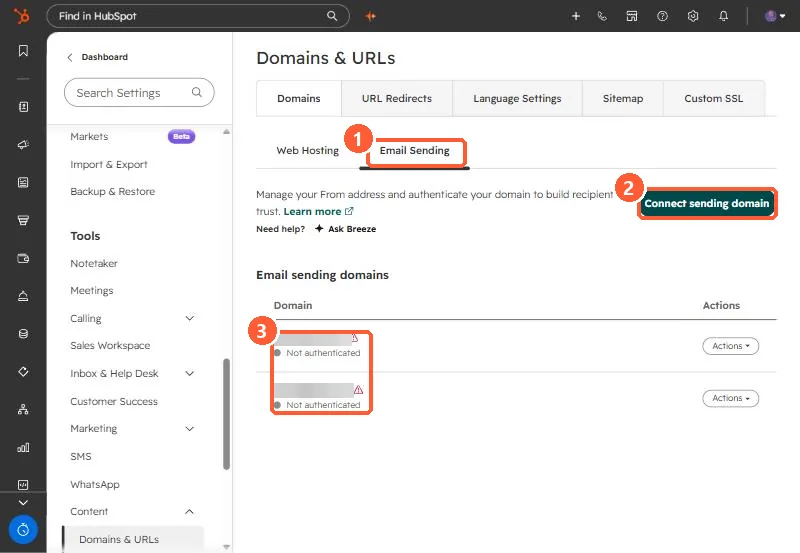
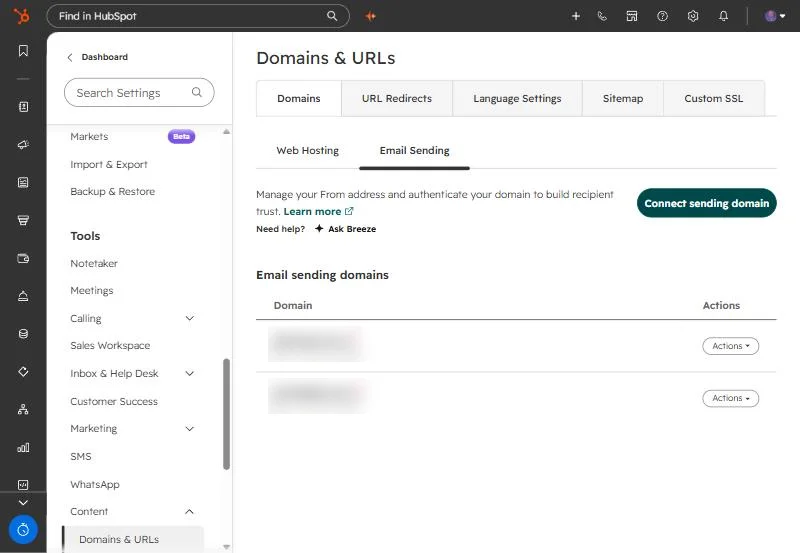
Rewrite site-speed-dashboard and email-sending-domain-troubleshoot from KB, add Validated stamps
- site-speed-dashboard: replace the wrong screenshot (Website pages) with the Site Speed dashboard, blur the domain, use KB steps and report list.
- email-sending-domain-troubleshoot: blur sending domain names, use the KB troubleshooting steps, drop the Community source.
- Add validated fields (2026-10-11 15:55 ET and 16:10 ET); article row, home card, OG card, feed and llms.txt updated.

Changed region(s): [[0.3125, 0.5533, 0.4688, 0.7685], [0.75, 0.3074, 1.0, 0.3996], [0.4062, 0.2152, 0.5938, 0.3074]]

diff --git a/index.html b/index.html
@@ -586,7 +586,7 @@
 <a class="card" href="articles/analyze-custom-behavioral-events/"><div class="badges"><span class="badge badge-type">Quick tip</span><span class="badge badge-problem">Gotcha</span><span class="badge">Marketing Hub</span></div><h3>Report on custom events</h3><p>Where to analyze HubSpot custom event data and the one-event-per-report limit.</p><div class="card-meta"><span>2 min</span><span>Intermediate</span><span>Verified 2026-10-07</span></div></a>
 <a class="card" href="articles/restore-deleted-marketing-emails/"><div class="badges"><span class="badge badge-type">Quick tip</span><span class="badge badge-problem">How to</span><span class="badge">Marketing Hub</span></div><h3>Restore a deleted marketing email</h3><p>How long HubSpot keeps deleted marketing emails and who can restore them.</p><div class="card-meta"><span>2 min</span><span>Beginner</span><span>Verified 2026-10-07</span></div></a>
 <a class="card" href="articles/sequences-sender-score/"><div class="badges"><span class="badge badge-type">Quick tip</span><span class="badge badge-problem">Gotcha</span><span class="badge">Sales Hub</span></div><h3>What the sequences sender score measures</h3><p>How HubSpot calculates the sequences sender score and where to see it.</p><div class="card-meta"><span>2 min</span><span>Intermediate</span><span>Verified 2026-10-07</span></div></a>
-<a class="card" href="articles/site-speed-dashboard/"><div class="badges"><span class="badge badge-type">Quick tip</span><span class="badge badge-problem">How to</span><span class="badge">Content Hub</span></div><h3>Check Web Vitals on the site speed dashboard</h3><p>What HubSpot&#39;s site speed dashboard covers and how to open it.</p><div class="card-meta"><span>2 min</span><span>Beginner</span><span>Verified 2026-10-07</span></div></a>
+<a class="card" href="articles/site-speed-dashboard/"><div class="badges"><span class="badge badge-type">Quick tip</span><span class="badge badge-problem">How to</span><span class="badge">Content Hub</span></div><h3>Check Web Vitals on the site speed dashboard</h3><p>The site speed dashboard scores a domain or page against Core Web Vitals, with the steps to open it.</p><div class="card-meta"><span>2 min</span><span>Beginner</span><span>Validated 2026-10-11 15:55 ET</span></div></a>
 <a class="card" href="articles/google-drive-integration/"><div class="badges"><span class="badge badge-type">Quick tip</span><span class="badge badge-problem">How to</span><span class="badge">Smart CRM</span></div><h3>Connect Google Drive to HubSpot</h3><p>How the Google Drive integration works per user and its file access rules.</p><div class="card-meta"><span>2 min</span><span>Beginner</span><span>Verified 2026-10-07</span></div></a>
 <a class="card" href="articles/forms-multiple-languages/"><div class="badges"><span class="badge badge-type">Quick tip</span><span class="badge badge-problem">How to</span><span class="badge">Marketing Hub</span></div><h3>Translate a legacy form</h3><p>How translations work for HubSpot legacy forms.</p><div class="card-meta"><span>2 min</span><span>Beginner</span><span>Verified 2026-10-07</span></div></a>
 <a class="card" href="articles/create-sync-properties/"><div class="badges"><span class="badge badge-type">Quick tip</span><span class="badge badge-problem">Hidden trick</span><span class="badge">Smart CRM</span></div><h3>Copy data to associated records with sync properties</h3><p>How sync properties copy values one way and when they can replace a workflow.</p><div class="card-meta"><span>2 min</span><span>Intermediate</span><span>Verified 2026-10-07</span></div></a>
@@ -732,7 +732,7 @@
 <a class="card" href="articles/chatflow-availability/"><div class="badges"><span class="badge badge-type">Quick tip</span><span class="badge badge-problem">Gotcha</span><span class="badge">Service Hub</span><span class="badge">Marketing Hub</span></div><h3>Control when your chat widget appears</h3><p>How HubSpot chatflow availability settings work, including for bots.</p><div class="card-meta"><span>2 min</span><span>Intermediate</span><span>Verified 2026-10-07</span></div></a>
 <a class="card" href="articles/email-deliverability-practices/"><div class="badges"><span class="badge badge-type">Quick tip</span><span class="badge badge-problem">How to</span><span class="badge">Marketing Hub</span></div><h3>HubSpot&#39;s email deliverability basics</h3><p>What HubSpot&#39;s KB recommends to keep marketing emails out of spam.</p><div class="card-meta"><span>2 min</span><span>Beginner</span><span>Verified 2026-10-07</span></div></a>
 <a class="card" href="articles/custom-objects-use/"><div class="badges"><span class="badge badge-type">Quick tip</span><span class="badge badge-problem">How to</span><span class="badge">Smart CRM</span></div><h3>Create and work with custom object records</h3><p>How HubSpot custom object records are created, associated and automated.</p><div class="card-meta"><span>2 min</span><span>Intermediate</span><span>Verified 2026-10-07</span></div></a>
-<a class="card" href="articles/email-sending-domain-troubleshoot/"><div class="badges"><span class="badge badge-type">Quick tip</span><span class="badge badge-problem">Fix it</span><span class="badge">Marketing Hub</span></div><h3>Email sending domain won&#39;t verify</h3><p>HubSpot&#39;s checks when DNS records for an email sending domain don&#39;t verify.</p><div class="card-meta"><span>2 min</span><span>Intermediate</span><span>Verified 2026-10-07</span></div></a>
+<a class="card" href="articles/email-sending-domain-troubleshoot/"><div class="badges"><span class="badge badge-type">Quick tip</span><span class="badge badge-problem">Fix it</span><span class="badge">Marketing Hub</span></div><h3>Email sending domain won&#39;t verify</h3><p>Why an email sending domain shows Not authenticated: DNS propagation, the duplicated root domain, and checking with Dig.</p><div class="card-meta"><span>2 min</span><span>Intermediate</span><span>Validated 2026-10-11 16:10 ET</span></div></a>
 <a class="card" href="articles/mobile-app-conversations/"><div class="badges"><span class="badge badge-type">Quick tip</span><span class="badge badge-problem">How to</span><span class="badge">Service Hub</span></div><h3>Answer inbox conversations from the mobile app</h3><p>What HubSpot&#39;s mobile app can do with the conversations inbox.</p><div class="card-meta"><span>2 min</span><span>Beginner</span><span>Verified 2026-10-07</span></div></a>
 <a class="card" href="articles/facebook-event-codes/"><div class="badges"><span class="badge badge-type">Quick tip</span><span class="badge badge-problem">Gotcha</span><span class="badge">Marketing Hub</span></div><h3>Facebook event codes on HubSpot pages</h3><p>What HubSpot places automatically and when you install the pixel yourself.</p><div class="card-meta"><span>2 min</span><span>Intermediate</span><span>Verified 2026-10-07</span></div></a>
 <a class="card" href="articles/form-email-response/"><div class="badges"><span class="badge badge-type">Quick tip</span><span class="badge badge-problem">How to</span><span class="badge">Marketing Hub</span></div><h3>Send an email after a form submission</h3><p>How HubSpot&#39;s form automation sends follow-up emails, by tier.</p><div class="card-meta"><span>2 min</span><span>Beginner</span><span>Verified 2026-10-07</span></div></a>

diff --git a/articles/email-sending-domain-troubleshoot/index.html b/articles/email-sending-domain-troubleshoot/index.html
@@ -22,7 +22,7 @@
 <meta property="og:description" content="HubSpot's checks when DNS records for an email sending domain don't verify.">
 <meta property="og:image" content="https://hubspot.samcbarth.com/articles/email-sending-domain-troubleshoot/og.png">
 <meta property="article:published_time" content="2026-10-07">
-<meta property="article:modified_time" content="2026-10-07">
+<meta property="article:modified_time" content="2026-10-11">
 <meta name="twitter:card" content="summary_large_image">
 <script type="application/ld+json">
 {
@@ -33,7 +33,7 @@
       "headline": "Email sending domain won't verify",
       "description": "HubSpot's checks when DNS records for an email sending domain don't verify.",
       "datePublished": "2026-10-07",
-      "dateModified": "2026-10-07",
+      "dateModified": "2026-10-11",
       "author": { "@type": "Person", "name": "Sam Barth", "url": "https://samcbarth.com" },
       "publisher": { "@type": "Person", "name": "Sam Barth" },
       "image": "https://hubspot.samcbarth.com/articles/email-sending-domain-troubleshoot/og.png",
@@ -87,12 +87,12 @@
     <header class="article-head">
       <div class="badges"><span class="badge badge-type">Quick tip</span><span class="badge badge-problem">Fix it</span><span class="badge">Marketing Hub</span></div>
       <h1>Email sending domain won't verify</h1>
-      <p class="dek">Hostnames without the domain.</p>
+      <p class="dek">Most sending domains that won't verify have a DNS record problem. Check the record, the host name and the propagation time before you change anything else.</p>
       <dl class="facts">
         <div class="fact"><dt>Subscription</dt><dd>All tiers</dd></div>
         <div class="fact"><dt>Permissions</dt><dd>Domain settings access</dd></div>
         <div class="fact"><dt>Time</dt><dd>2 min &middot; Intermediate</dd></div>
-        <div class="fact"><dt>Last verified</dt><dd><time datetime="2026-10-07">October 7, 2026</time></dd></div>
+        <div class="fact"><dt>Validated</dt><dd><time datetime="2026-10-11T16:10:00-04:00">October 11, 2026, 4:10 PM ET</time></dd></div>
       </dl>
       <div data-portal-box></div>
     </header>
@@ -102,21 +102,27 @@
       <article class="prose">
         <div class="tldr">
           <h2>Short answer</h2>
-          <p>HubSpot's KB: DNS changes take time to propagate. Enter <strong>host(name) values without the domain</strong>, since some DNS providers append it and create a duplicated root domain. Check with tools like <strong>Dig</strong>. The DKIM CNAME records follow the DKIM protocol.</p>
+          <p>Most DNS changes show up within five hours, and full propagation can take up to 48 hours. If the domain still won't verify, compare each CNAME record in HubSpot with the record at your DNS host. The usual fix is to enter the host name without the root domain, because some DNS hosts add it again and create a duplicated root domain.</p>
         </div>
 
-        <h2>1. In HubSpot</h2>
-        <p>The relevant screen in my demo portal.</p>
-        <figure class="shot"><a href="domains.webp"><img src="domains.webp" alt="Domains and URLs Email Sending tab with Connect sending domain button and two domains not authenticated" width="800" height="553" loading="lazy"></a><figcaption>Email Sending (1), Connect sending domain (2), and the status (3).</figcaption></figure>
-        <h2>2. Worth knowing</h2>
-        <p>A duplicated root domain in the host field is the error to look for first.</p>
-        <h2>3. Related</h2>
-        <p><a href="../connect-email-sending-domain-spf/">Connecting a sending domain</a> and <a href="../dmarc-for-hubspot-email/">DMARC</a>.</p>
+        <h2>1. Find the sending domains</h2>
+        <p>Open <span class="ui">Settings</span>, then <span class="ui">Content</span>, then <span class="ui">Domains &amp; URLs</span>, and select the <span class="ui">Email Sending</span> tab. Each domain shows its status. <span class="ui">Connect sending domain</span> starts a new one.</p>
+        <figure class="shot"><a href="domains.webp"><img src="domains.webp" alt="Domains and URLs Email Sending tab with the Connect sending domain button and domain status rows" width="800" height="553" loading="lazy"></a><figcaption>The Email Sending tab. Domain names are blurred. A domain marked Not authenticated needs its DNS records checked.</figcaption></figure>
+        <div class="callout"><span class="callout-title">Example from my portal</span><p>In my portal I had this as an example. Two sending domains showed Not authenticated at the same time,. You may have something like this.</p></div>
+
+        <h2>2. Compare the records</h2>
+        <p>On the <span class="ui">Verify URLs</span> step, HubSpot shows a banner when it can't connect a record. It groups the problem as a typo, a missing record, or a conflicting record. Open your DNS host and confirm the CNAME records match the host name and values HubSpot gives you. Then select <span class="ui">Refresh</span> or check them again in HubSpot.</p>
+
+        <h2>3. Remove the duplicated root domain</h2>
+        <p>Some DNS hosts add your domain to the end of each record by default. For a DKIM record, that turns <code>hs1-123456._domainkey.example.com</code> into a record ending in <code>example.com.example.com</code>. Enter the host name without the domain, such as <code>hs1-123456._domainkey</code>. Some DNS hosts reject characters such as underscores or hyphens in a CNAME; if yours does, contact its support.</p>
+
+        <h2>4. Check with Dig</h2>
+        <p>Use a DNS lookup tool such as Dig to check the record at the public DNS level. Set the type to CNAME for an email sending domain. The result should match the value HubSpot provides, which for an email sending domain looks like <code>yourdomain-com.hs[#]a.dkim.hubspotemail.net.</code> or the b variant.</p>
 
         <h2>Sources</h2>
         <ul class="sources">
-          <li><a href="https://community.hubspot.com/t/suspendings-sending-emails/12991">HubSpot Community question: Suspendings sending emails</a></li>
-          <li><a href="https://knowledge.hubspot.com/email/troubleshoot-your-email-sending-domain">HubSpot Knowledge Base: Troubleshoot your email sending domain</a></li>
+          <li><a href="https://knowledge.hubspot.com/email/troubleshoot-your-email-sending-domain">HubSpot Knowledge Base: Troubleshoot domain connection</a></li>
+          <li><a href="https://knowledge.hubspot.com/marketing-email/manage-email-authentication-in-hubspot">HubSpot Knowledge Base: Manage your email authentication</a></li>
         </ul>
 
         <div class="vote" data-vote></div>

diff --git a/articles/site-speed-dashboard/index.html b/articles/site-speed-dashboard/index.html
@@ -22,7 +22,7 @@
 <meta property="og:description" content="What HubSpot's site speed dashboard covers and how to open it.">
 <meta property="og:image" content="https://hubspot.samcbarth.com/articles/site-speed-dashboard/og.png">
 <meta property="article:published_time" content="2026-10-07">
-<meta property="article:modified_time" content="2026-10-07">
+<meta property="article:modified_time" content="2026-10-11">
 <meta name="twitter:card" content="summary_large_image">
 <script type="application/ld+json">
 {
@@ -33,7 +33,7 @@
       "headline": "Check Web Vitals on the site speed dashboard",
       "description": "What HubSpot's site speed dashboard covers and how to open it.",
       "datePublished": "2026-10-07",
-      "dateModified": "2026-10-07",
+      "dateModified": "2026-10-11",
       "author": { "@type": "Person", "name": "Sam Barth", "url": "https://samcbarth.com" },
       "publisher": { "@type": "Person", "name": "Sam Barth" },
       "image": "https://hubspot.samcbarth.com/articles/site-speed-dashboard/og.png",
@@ -87,12 +87,12 @@
     <header class="article-head">
       <div class="badges"><span class="badge badge-type">Quick tip</span><span class="badge badge-problem">How to</span><span class="badge">Content Hub</span></div>
       <h1>Check Web Vitals on the site speed dashboard</h1>
-      <p class="dek">HubSpot-hosted content only.</p>
+      <p class="dek">The site speed dashboard scores a domain or page against Core Web Vitals. Here is how to open it and what each report shows.</p>
       <dl class="facts">
         <div class="fact"><dt>Subscription</dt><dd>Check your subscription</dd></div>
         <div class="fact"><dt>Permissions</dt><dd>Reports access</dd></div>
         <div class="fact"><dt>Time</dt><dd>2 min &middot; Beginner</dd></div>
-        <div class="fact"><dt>Last verified</dt><dd><time datetime="2026-10-07">October 7, 2026</time></dd></div>
+        <div class="fact"><dt>Validated</dt><dd><time datetime="2026-10-11T15:55:00-04:00">October 11, 2026, 3:55 PM ET</time></dd></div>
       </dl>
       <div data-portal-box></div>
     </header>
@@ -102,21 +102,31 @@
       <article class="prose">
         <div class="tldr">
           <h2>Short answer</h2>
-          <p>HubSpot's KB: the dashboard evaluates pages against <strong>Web Vitals</strong> metrics. It only analyzes <strong>HubSpot-hosted content</strong>. Open it at app.hubspot.com/site-speed/ followed by your account ID.</p>
+          <p>The site speed dashboard scores how a domain or page performs for visitors against Core Web Vitals. Open <code>app.hubspot.com/site-speed/</code> followed by your account ID, choose a domain or search for a URL, then select <span class="ui">Analyze</span>.</p>
         </div>
 
-        <h2>1. In HubSpot</h2>
-        <p>The relevant screen in my demo portal.</p>
-        <figure class="shot"><a href="pages.webp"><img src="pages.webp" alt="Website pages list with Manage and Analyze tabs, saved views, publish status and domain filters" width="800" height="553" loading="lazy"></a><figcaption>Manage and Analyze tabs (1) and saved views (2).</figcaption></figure>
-        <h2>2. Worth knowing</h2>
-        <p>External sites, such as WordPress, need other tools.</p>
-        <h2>3. Related</h2>
-        <p><a href="../speed-up-landing-page/">Speeding up pages</a> and <a href="../automatic-image-resizing/">image resizing</a>.</p>
+        <h2>1. Open the dashboard</h2>
+        <ol>
+          <li>Click your account name in the top right of HubSpot. Under <span class="ui">Account</span>, your account ID sits below the name.</li>
+          <li>Open <code>app.hubspot.com/site-speed/[account-id]</code>, replacing <code>[account-id]</code> with that number.</li>
+          <li>Select <span class="ui">Select Domain</span> and pick a domain, or select <span class="ui">Search URL</span> to analyze one page.</li>
+          <li>Select <span class="ui">Analyze</span>.</li>
+        </ol>
+        <figure class="shot"><a href="dashboard.webp"><img src="dashboard.webp" alt="Site Speed Dashboard with the domain field, Analyze button and date range" width="543" height="898" loading="lazy"></a><figcaption>The dashboard before you analyze. The domain field and date range are at the top. The domain is blurred.</figcaption></figure>
+
+        <h2>2. Read the reports</h2>
+        <ul>
+          <li><strong>Performance Overall</strong> analyzes the overall performance of the page or domain.</li>
+          <li><strong>Core Web Vitals Trends</strong> tracks the core web vitals over time. HubSpot recommends aiming for good core web vitals on 75% of visits.</li>
+          <li><strong>Sessions by country</strong> groups the core web vitals by the country tied to the visitor's IP address.</li>
+          <li><strong>Page Performance</strong> shows the core web vitals of individual pages.</li>
+        </ul>
+        <div class="callout"><span class="callout-title">Example from my portal</span><p>In my portal I had this as an example. The demo domain returned "There is no data to show" in every panel. You may have something like this.</p></div>
 
         <h2>Sources</h2>
         <ul class="sources">
-          <li><a href="https://community.hubspot.com/t/how-to-optimize-wordpress-website-site-speed/115071">HubSpot Community question: How to optimize WordPress website site speed</a></li>
           <li><a href="https://knowledge.hubspot.com/seo/use-the-site-speed-dashboard">HubSpot Knowledge Base: Use the site speed dashboard</a></li>
+          <li><a href="https://web.dev/articles/vitals">web.dev: Core Web Vitals</a></li>
         </ul>
 
         <div class="vote" data-vote></div>

diff --git a/articles.js b/articles.js
@@ -10331,7 +10331,7 @@ var ARTICLES = [
   {
     slug: "site-speed-dashboard",
     title: "Check Web Vitals on the site speed dashboard",
-    excerpt: "What HubSpot's site speed dashboard covers and how to open it.",
+    excerpt: "The site speed dashboard scores a domain or page against Core Web Vitals, with the steps to open it.",
     type: "tip",
     problem: "How to",
     hubs: ["Content Hub"],
@@ -10339,6 +10339,7 @@ var ARTICLES = [
     tier: "Check your subscription",
     permissions: "Reports access",
     verified: "2026-10-07",
+    validated: "2026-10-11 15:55 ET",
     published: "2026-10-07",
     minutes: 2,
     difficulty: "Beginner",
@@ -12667,7 +12668,7 @@ var ARTICLES = [
   {
     slug: "email-sending-domain-troubleshoot",
     title: "Email sending domain won't verify",
-    excerpt: "HubSpot's checks when DNS records for an email sending domain don't verify.",
+    excerpt: "Why an email sending domain shows Not authenticated: DNS propagation, the duplicated root domain, and checking with Dig.",
     type: "tip",
     problem: "Fix it",
     hubs: ["Marketing Hub"],
@@ -12676,6 +12677,7 @@ var ARTICLES = [
     permissions: "Domain settings access",
     verified: "2026-10-07",
     published: "2026-10-07",
+    validated: "2026-10-11 16:10 ET",
     minutes: 2,
     difficulty: "Intermediate",
     keywords: ["email sending domain not verifying", "dkim cname hubspot", "dns propagation hubspot", "duplicated root domain dns"]
